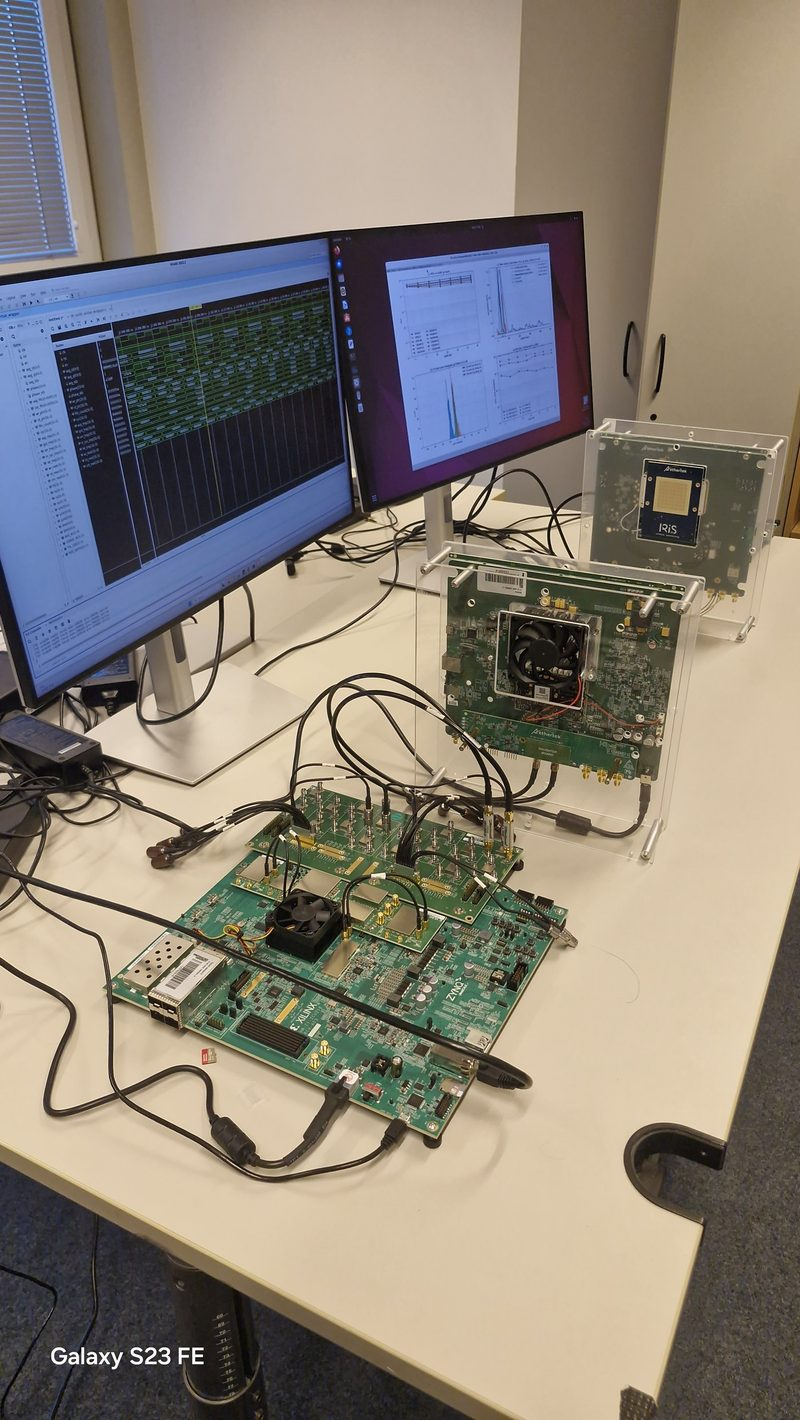
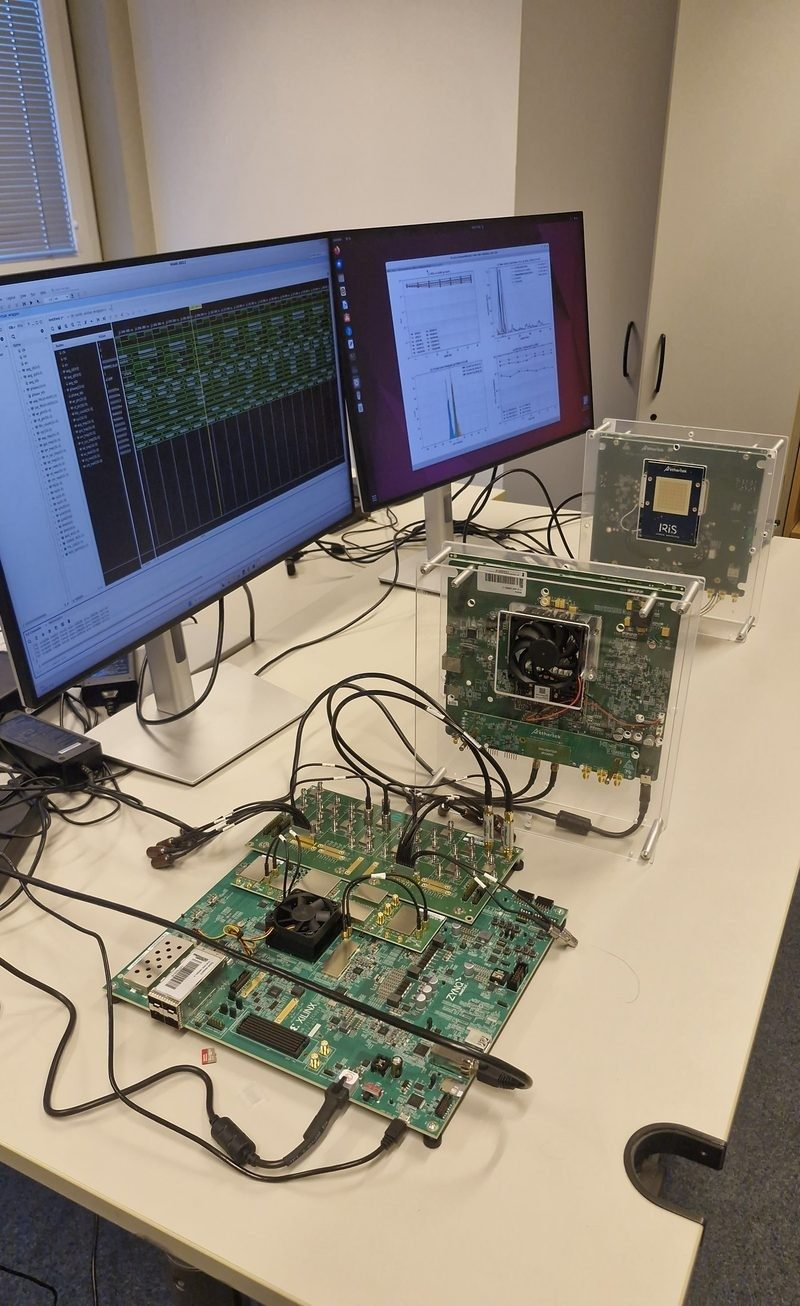
Shrink hero photo and remove phone watermark
Crop out the "Galaxy S23 FE" watermark baked into the bottom of
testbed.jpg, and reduce the hero photo's display size so it reads
as an accent next to the intro text instead of dominating it.

diff --git a/assets/css/style.css b/assets/css/style.css
@@ -106,9 +106,9 @@ p {
 }
 
 .hero-photo {
-  flex: 0 0 240px;
-  width: 240px;
-  max-height: 420px;
+  flex: 0 0 160px;
+  width: 160px;
+  max-height: 260px;
   object-fit: cover;
   object-position: top;
   border-radius: var(--radius);
@@ -518,7 +518,7 @@ footer {
 
   .hero-photo {
     width: 100%;
-    max-height: 280px;
+    max-height: 220px;
   }
 
   .project-grid {
